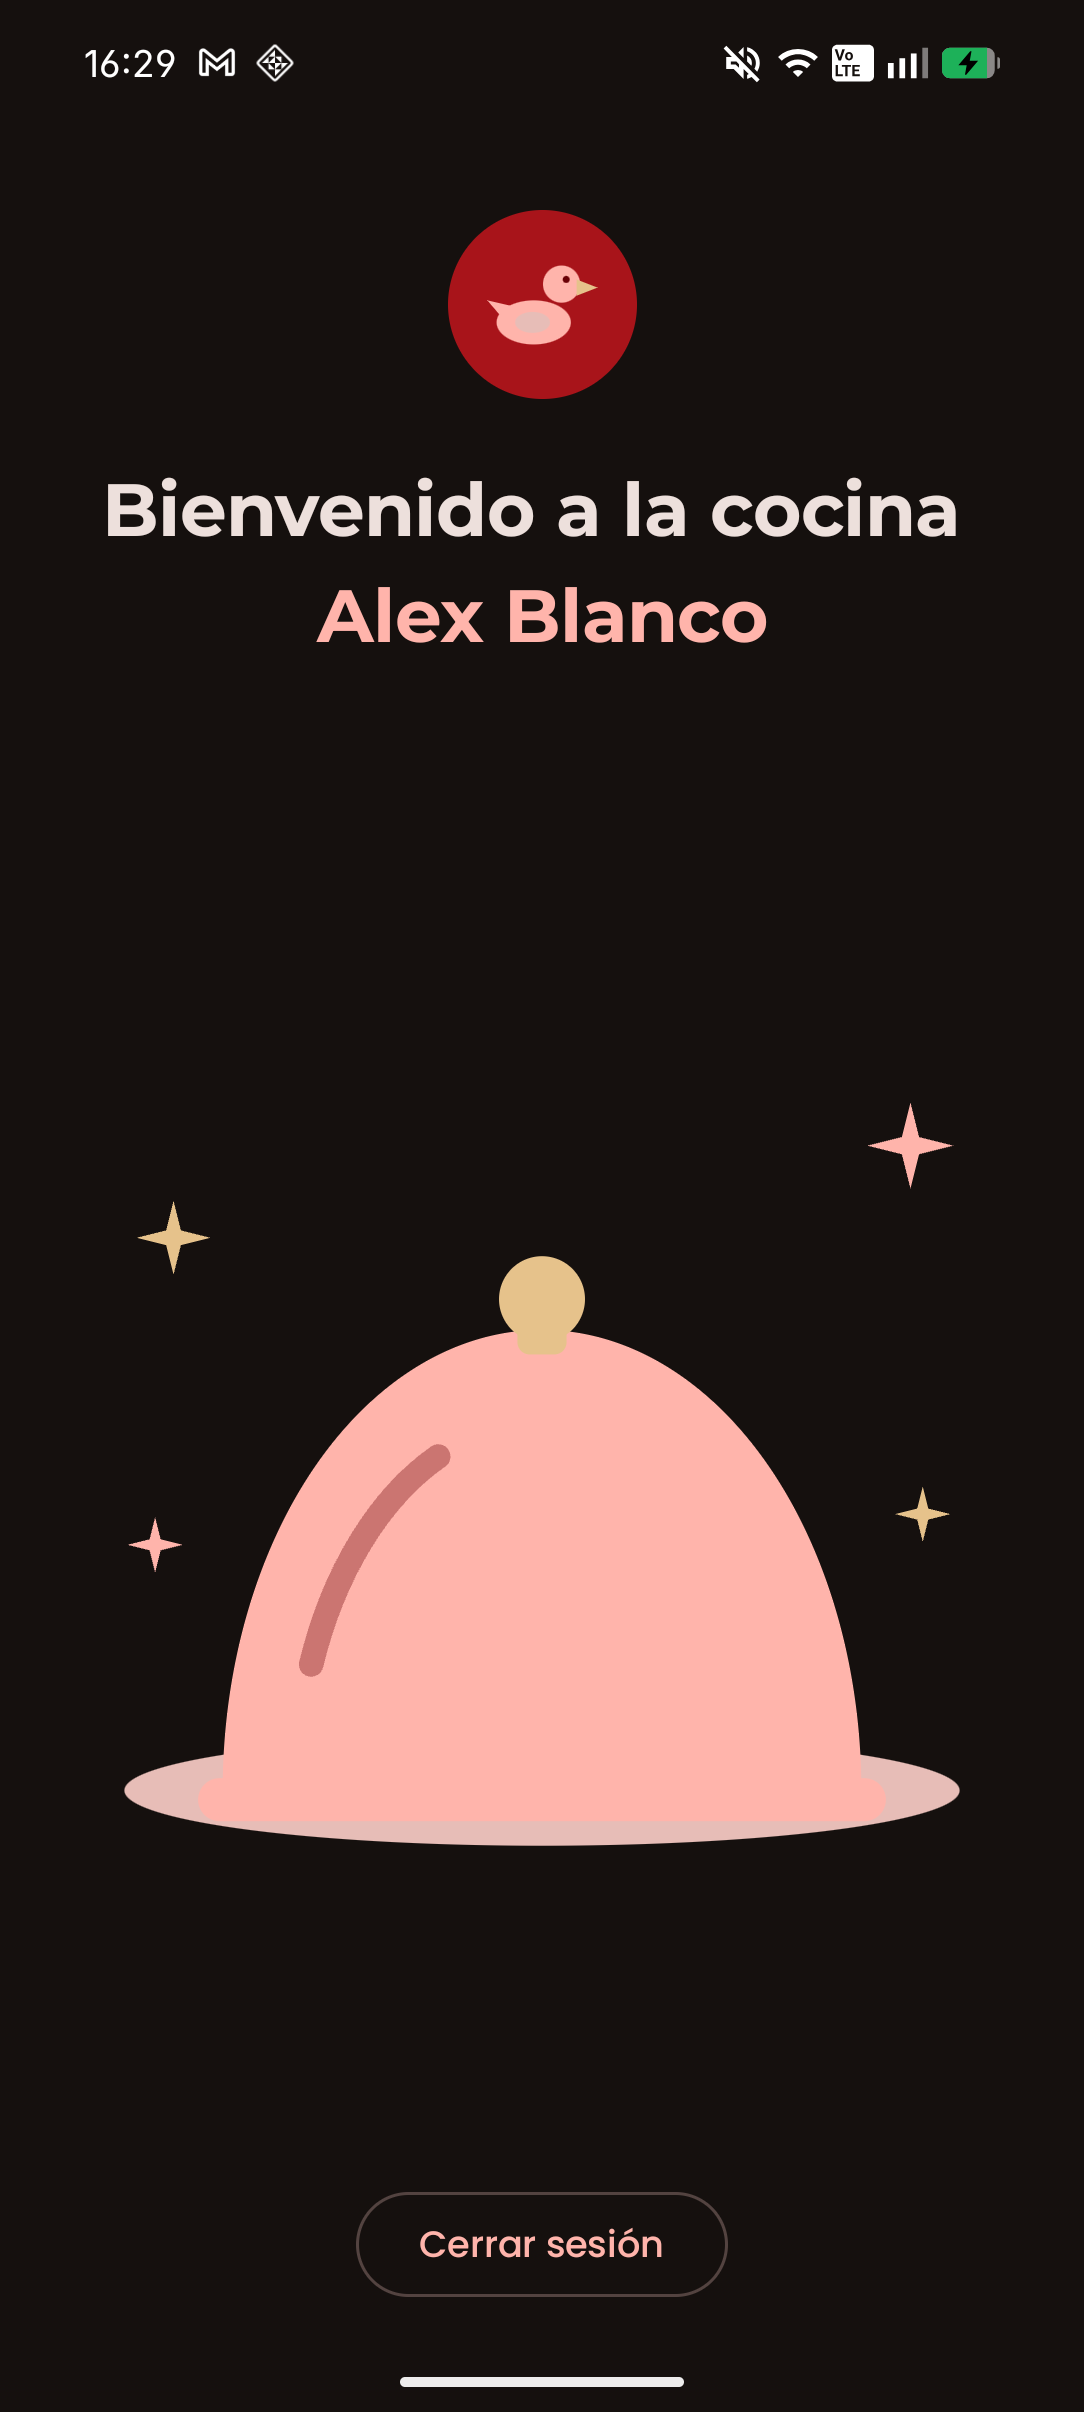
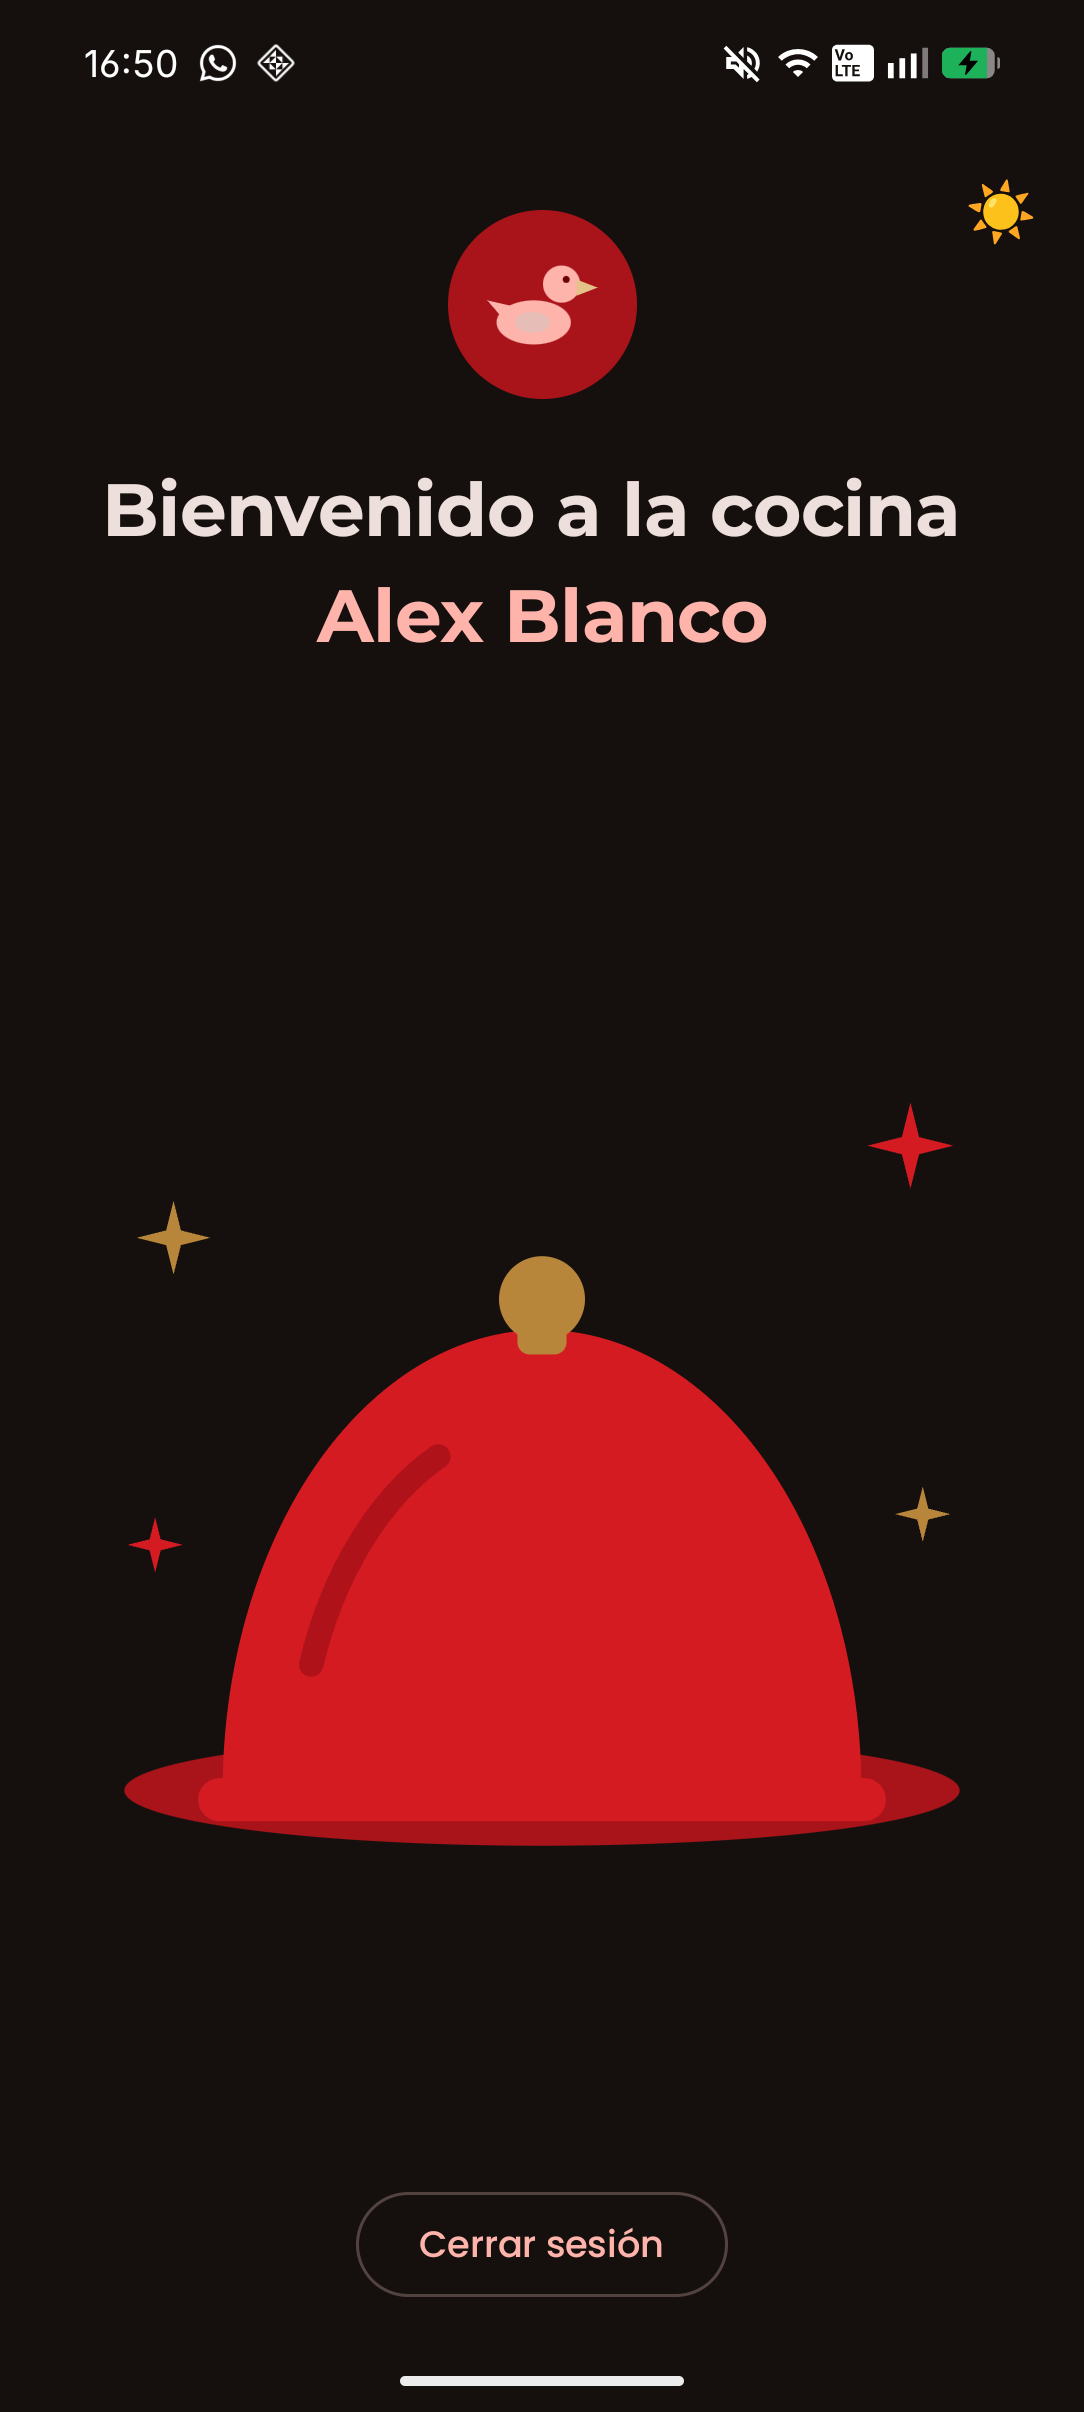
quite las cosas sin funcion cambie el splash art del welcome screen. añadi los extras read me añadido

diff --git a/app/src/main/java/com/alejandroblanco/login_compose/MainActivity.kt b/app/src/main/java/com/alejandroblanco/login_compose/MainActivity.kt
@@ -6,6 +6,8 @@ import androidx.activity.SystemBarStyle
 import androidx.activity.compose.setContent
 import androidx.activity.enableEdgeToEdge
 import androidx.compose.animation.AnimatedContent
+import androidx.compose.animation.core.Animatable
+import androidx.compose.animation.core.FastOutSlowInEasing
 import androidx.compose.animation.core.tween
 import androidx.compose.animation.fadeIn
 import androidx.compose.animation.fadeOut
@@ -21,6 +23,8 @@ import androidx.compose.runtime.Composable
 import androidx.compose.runtime.DisposableEffect
 import androidx.compose.runtime.getValue
 import androidx.compose.runtime.mutableStateOf
+import androidx.compose.runtime.remember
+import androidx.compose.runtime.rememberCoroutineScope
 import androidx.compose.runtime.saveable.rememberSaveable
 import androidx.compose.runtime.setValue
 import androidx.compose.ui.Alignment
@@ -28,8 +32,10 @@ import androidx.compose.ui.Modifier
 import androidx.compose.ui.unit.dp
 import com.alejandroblanco.login_compose.ui.BotonModo
 import com.alejandroblanco.login_compose.ui.LoginScreen
+import com.alejandroblanco.login_compose.ui.Persiana
 import com.alejandroblanco.login_compose.ui.WelcomeScreen
 import com.alejandroblanco.login_compose.ui.theme.Login_composeTheme
+import kotlinx.coroutines.launch
 
 class MainActivity : ComponentActivity() {
     override fun onCreate(savedInstanceState: Bundle?) {
@@ -82,6 +88,11 @@ private fun App(
 ) {
     var nombreUsuario by rememberSaveable { mutableStateOf<String?>(null) }
 
+    // progreso de la persiana: 0 = abierta, 1 = cerrada, 2 = ya se ha vuelto a abrir
+    val persiana = remember { Animatable(0f) }
+    val scope = rememberCoroutineScope()
+    var animando by remember { mutableStateOf(false) }
+
     // Scaffold nos da el fondo del tema y calcula "innerPadding":
     // el espacio que ocupan las barras del sistema, para no taparnos con ellas.
     Scaffold(modifier = Modifier.fillMaxSize()) { innerPadding ->
@@ -120,12 +131,31 @@ private fun App(
 
         BotonModo(
             modoOscuro = modoOscuro,
-            onCambiar = onCambiarModo,
+            onCambiar = {
+                // si la persiana ya se esta moviendo no hacemos nada
+                if (!animando) {
+                    scope.launch {
+                        animando = true
+                        // 1) la persiana se cierra de arriba a abajo tapando la pantalla (0 -> 1)
+                        persiana.animateTo(1f, tween(1100, easing = FastOutSlowInEasing))
+                        // 2) con la pantalla tapada cambiamos de modo
+                        onCambiarModo()
+                        // 3) la persiana se abre tambien de arriba a abajo (1 -> 2)
+                        persiana.animateTo(2f, tween(1100, easing = FastOutSlowInEasing))
+                        // 4) la dejamos otra vez en 0 para el siguiente cambio
+                        persiana.snapTo(0f)
+                        animando = false
+                    }
+                }
+            },
             modifier = Modifier
                 .align(Alignment.TopEnd)
                 .padding(innerPadding)
                 .padding(8.dp),
         )
+
+        // la persiana va encima de todo
+        Persiana(progreso = { persiana.value })
         }
     }
 }

diff --git a/app/src/main/java/com/alejandroblanco/login_compose/ui/Persiana.kt b/app/src/main/java/com/alejandroblanco/login_compose/ui/Persiana.kt
@@ -1,0 +1,74 @@
+package com.alejandroblanco.login_compose.ui
+
+import androidx.compose.foundation.Canvas
+import androidx.compose.foundation.layout.fillMaxSize
+import androidx.compose.runtime.Composable
+import androidx.compose.ui.Modifier
+import androidx.compose.ui.geometry.Offset
+import androidx.compose.ui.geometry.Size
+import androidx.compose.ui.graphics.Brush
+import androidx.compose.ui.graphics.Color
+
+// Persiana de madera que se cierra y se abre para tapar el cambio de modo.
+// Son varias lamas horizontales que van creciendo hasta tapar toda la pantalla.
+private const val NUM_LAMAS = 12
+private val MaderaClara = Color(0xFF7A5A3A)
+private val MaderaOscura = Color(0xFF4E3624)
+private val Cinta = Color(0xFF2F2420)
+
+// progreso va de 0f a 2f:
+//   de 0 a 1 la persiana se CIERRA (las lamas van tapando de arriba a abajo)
+//   de 1 a 2 la persiana se ABRE (las lamas van abriendo tambien de arriba a abajo)
+// Lo pido como funcion para que solo se redibuje el Canvas y no toda la pantalla
+@Composable
+fun Persiana(progreso: () -> Float, modifier: Modifier = Modifier) {
+    Canvas(modifier = modifier.fillMaxSize()) {
+        val v = progreso()
+        if (v <= 0f || v >= 2f) return@Canvas
+
+        val altoLama = size.height / NUM_LAMAS
+        val retraso = 0.7f   // cuanto se retrasa cada lama respecto a la de arriba (mas = cascada mas larga)
+
+        for (i in 0 until NUM_LAMAS) {
+            // cada lama empieza un poco despues que la anterior (efecto cascada)
+            val inicio = i.toFloat() / NUM_LAMAS * retraso
+            val cierre = ((v - inicio) / (1f - retraso)).coerceIn(0f, 1f)
+            val apertura = ((v - 1f - inicio) / (1f - retraso)).coerceIn(0f, 1f)
+            val giro = cierre - apertura
+            if (giro <= 0f) continue
+
+            // la lama gira: de verse de canto (muy fina) a verse de frente (entera)
+            // el 1.04 es para que al cerrar no queden huecos entre lamas
+            val alto = altoLama * 1.04f * giro
+            val arriba = (i + 0.5f) * altoLama - alto / 2
+
+            drawRect(
+                brush = Brush.verticalGradient(
+                    colors = listOf(MaderaClara, MaderaOscura),
+                    startY = arriba,
+                    endY = arriba + alto,
+                ),
+                topLeft = Offset(0f, arriba),
+                size = Size(size.width, alto),
+            )
+            // sombra fina debajo de cada lama
+            drawLine(
+                color = Color.Black.copy(alpha = 0.5f),
+                start = Offset(0f, arriba + alto),
+                end = Offset(size.width, arriba + alto),
+                strokeWidth = 2f,
+            )
+        }
+
+        // las dos cintas oscuras que sujetan las lamas, como en una persiana de verdad
+        // aparecen al empezar a cerrar y desaparecen al terminar de abrir
+        val alfaCinta = if (v <= 1f) (v * 4f).coerceIn(0f, 1f) else (2f - v).coerceIn(0f, 1f)
+        listOf(0.18f, 0.82f).forEach { x ->
+            drawRect(
+                color = Cinta.copy(alpha = alfaCinta),
+                topLeft = Offset(size.width * x - 10f, 0f),
+                size = Size(20f, size.height),
+            )
+        }
+    }
+}

diff --git a/app/src/main/java/com/alejandroblanco/login_compose/ui/WelcomeScreen.kt b/app/src/main/java/com/alejandroblanco/login_compose/ui/WelcomeScreen.kt
@@ -26,6 +26,9 @@ import androidx.compose.ui.graphics.drawscope.translate
 import androidx.compose.ui.tooling.preview.Preview
 import androidx.compose.ui.unit.dp
 import com.alejandroblanco.login_compose.ui.theme.Login_composeTheme
+import com.alejandroblanco.login_compose.ui.theme.Primary
+import com.alejandroblanco.login_compose.ui.theme.Secondary
+import com.alejandroblanco.login_compose.ui.theme.Tertiary
 
 /*
  * PANTALLA 2: BIENVENIDA
@@ -89,10 +92,10 @@ fun WelcomeScreen(
 // Mi ilustracion
 @Composable
 private fun IlustracionPlato(modifier: Modifier = Modifier) {
-    // colores del tema
-    val campana = MaterialTheme.colorScheme.primary
-    val bandeja = MaterialTheme.colorScheme.secondary
-    val dorado = MaterialTheme.colorScheme.tertiary
+    // uso los colores fuertes en los dos modos, con los del modo oscuro se veia muy apagado
+    val campana = Primary
+    val bandeja = Secondary
+    val dorado = Tertiary
     val brillo = MaterialTheme.colorScheme.onPrimary.copy(alpha = 0.35f)   // blanco casi transparente
 
     Canvas(modifier = modifier.fillMaxWidth()) {

diff --git a/README.md b/README.md
@@ -17,9 +17,13 @@ No hay servidor ni base de datos, los datos están escritos en el código (`Logi
 
 ## Capturas
 
-| Login | Error | Bienvenida |
+| Login (modo oscuro) | Error | Bienvenida (modo oscuro) |
 |---|---|---|
 | ![Login](capturas/01_login.png) | ![Error](capturas/02_error.png) | ![Bienvenida](capturas/03_bienvenida.png) |
+
+| Persiana al cambiar de modo | Bienvenida (modo claro) |
+|---|---|
+| ![Persiana](capturas/05_persiana.png) | ![Bienvenida modo claro](capturas/04_bienvenida_claro.png) |
 
 ## Cómo funciona
 
@@ -40,6 +44,7 @@ No hay servidor ni base de datos, los datos están escritos en el código (`Logi
 
 - **Modo oscuro:** hay un esquema de colores oscuro que se activa según el modo del móvil.
 - **Botón de modo claro/oscuro:** arriba a la derecha (🌙 / ☀) para cambiar de modo sin salir de la app.
+- **Transición de persiana:** al cambiar de modo, una persiana de madera (dibujada con `Canvas`) se cierra y se abre de arriba a abajo.
 - **Transición animada** entre las dos pantallas (`AnimatedContent`: una desliza y se funde mientras sale la otra).
 - **Validación del formulario:** avisa si el correo no tiene formato válido, si la contraseña es muy corta o si los datos no coinciden.
 - **Componentes propios reutilizables:** `LogoCircular` y `LogoPato` se usan en las dos pantallas.
@@ -54,6 +59,8 @@ app/src/main/java/com/alejandroblanco/login_compose/
     WelcomeScreen.kt     pantalla de bienvenida
     LogoCircular.kt      círculo con el logo
     LogoPato.kt          pato dibujado con Canvas
+    BotonModo.kt         botón para cambiar claro/oscuro
+    Persiana.kt          persiana de la transición
     theme/
       Color.kt           colores (claro y oscuro)
       Theme.kt           tema de Material 3
